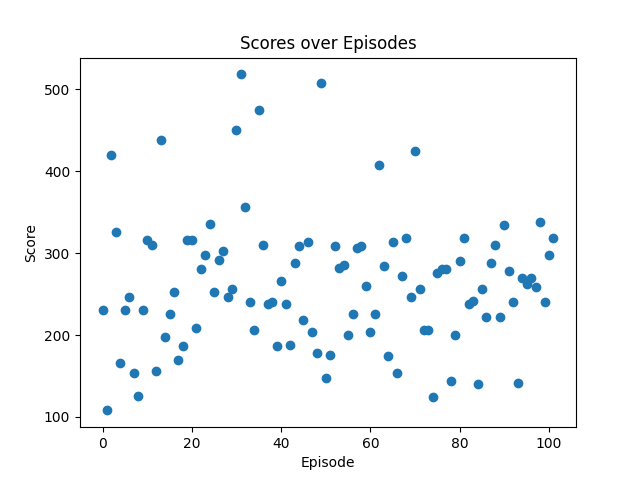
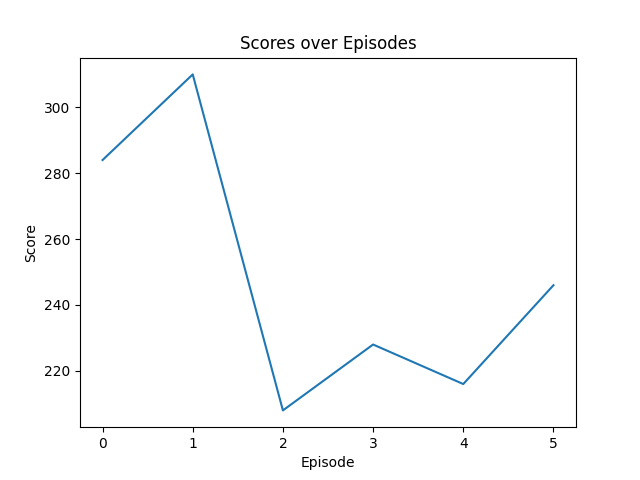
Fixed conv layers

diff --git a/dqn_agent.py b/dqn_agent.py
@@ -2,46 +2,82 @@ import numpy as np
 import tensorflow as tf
 import random
 from tensorflow import keras
-from keras.layers import Dense
+from keras.layers import Dense, Conv2D, Flatten, Reshape
 from keras.models import Sequential
-from keras.optimizers import Adam
+from keras.optimizers import Adam, RMSprop
 
 class DQNAgent:
-    def __init__(self, state_size, action_size, gamma=0.99, epsilon=1.0, epsilon_decay=0.99999, min_epsilon=0.01):
+    def __init__(self, state_size, action_size, alpha = 0.001, gamma=0.99, epsilon=0.9, epsilon_decay=0.99, min_epsilon=0.01):
         self.state_size = state_size
         self.action_size = action_size
-        self.model = self._build_model()
+        self.alpha = alpha # Learning rate
         self.gamma = gamma # Discount rate
         self.epsilon = epsilon # Exploration rate
         self.epsilon_min = min_epsilon
         self.epsilon_decay = epsilon_decay
+        
+        # convolution layers
+        self.conv_depth_1 = 128
+        self.conv_depth_2 = 128
+        self.conv_kernel_sizes = [(1,2), (2,1)]
+        self.conv_strides = (1,1)
+
+        # fully connected layers
+        self.hidden_units = 256
+        self.output_units = 4
+
+        # optimizer
+        self.optimizer = RMSprop(learning_rate=self.alpha,epsilon=self.epsilon, decay=self.epsilon_decay)
+
+        self.input_shape = (4,4,16)
+        self.model = self._build_model()
+
 
     def _build_model(self): 
         model = Sequential()
-        model.add(Dense(24, input_dim=self.state_size, activation='relu'))
-        model.add(Dense(24, activation='relu'))
-        model.add(Dense(self.action_size, activation='linear'))  # Q-value of each action
-        model.compile(loss='mse', optimizer=Adam())
+
+        # first convolutional layer (separate for different kernel sizes)
+        for kernel_size in self.conv_kernel_sizes:
+            model.add(Conv2D(self.conv_depth_1, kernel_size, strides=self.conv_strides, activation='relu', padding='valid', input_shape=self.input_shape))
+
+        # second convolutional layer (separate for different kernel sizes)
+        for kernel_size in self.conv_kernel_sizes:
+            model.add(Conv2D(self.conv_depth_2, kernel_size, strides=self.conv_strides, activation='relu', padding='valid'))
+
+        # flatten the output from convolutional layers to fit into dense layers
+        model.add(Flatten())
+
+        # first fully connected layer
+        model.add(Dense(self.hidden_units, activation='relu'))
+
+        # output layer
+        model.add(Dense(self.output_units))  # no explicit activation function
+
+        # compile the model with mean squared error loss and the RMSProp optimizer
+        model.compile(loss='mse', optimizer=self.optimizer)
+
         return model
 
     def choose_action(self, state):
         if np.random.rand() <= self.epsilon:
             return random.randrange(self.action_size)  # Exploration
         else:
-            state = np.reshape(state, [1, self.state_size])
+            # state = np.reshape(state, [1, self.state_size])
             Q_values = self.model.predict(state)
             # print(Q_values)
             return np.argmax(Q_values[0])  # Exploitation (choosing the action with the highest Q-value)
 
-    def learn(self, state, action, reward, next_state, done):
-        state = np.reshape(state, [1, self.state_size])
-        next_state = np.reshape(next_state, [1, self.state_size])
+    def learn(self, state, action, reward, next_state, done, ep, total_iters):
+        # state = np.reshape(state, [1, self.state_size])
+        # next_state = np.reshape(next_state, [1, self.state_size])
         target = self.model.predict(state)
+        print("target: ", target)
         if done:
             target[0][action] = reward
         else:
             Q_future = max(self.model.predict(next_state)[0])
+            print(action)
             target[0][action] = reward + self.gamma * Q_future
         self.model.fit(state, target, epochs=1, verbose=0)
-        # if self.epsilon > self.epsilon_min:
-        #     self.epsilon *= self.epsilon_decay
+        if((ep>10000) or (self.epsilon>0.1 and total_iters%2500==0)):
+                self.epsilon = self.epsilon/1.005

diff --git a/puzzle.py b/puzzle.py
@@ -12,11 +12,23 @@ import numpy as np
 import threading
 import queue
 import matplotlib
+import math
 matplotlib.use('Agg')
 
 
 def gen():
     return random.randint(0, c.GRID_LEN - 1)
+
+def change_values(X):
+    power_mat = np.zeros(shape=(1,4,4,16),dtype=np.float32)
+    for i in range(4):
+        for j in range(4):
+            if(X[i][j]==0):
+                power_mat[0][i][j][0] = 1.0
+            else:
+                power = int(math.log(X[i][j],2))
+                power_mat[0][i][j][power] = 1.0
+    return power_mat  
 
 class GameGrid(Frame):
     def __init__(self, ai_mode=False):
@@ -31,14 +43,6 @@ class GameGrid(Frame):
             c.KEY_DOWN: logic.down,
             c.KEY_LEFT: logic.left,
             c.KEY_RIGHT: logic.right,
-            c.KEY_UP_ALT1: logic.up,
-            c.KEY_DOWN_ALT1: logic.down,
-            c.KEY_LEFT_ALT1: logic.left,
-            c.KEY_RIGHT_ALT1: logic.right,
-            c.KEY_UP_ALT2: logic.up,
-            c.KEY_DOWN_ALT2: logic.down,
-            c.KEY_LEFT_ALT2: logic.left,
-            c.KEY_RIGHT_ALT2: logic.right,
         }
 
         self.grid_cells = []
@@ -62,17 +66,18 @@ class GameGrid(Frame):
 
     def train_agent(self):
         fig, ax = plt.subplots()  # Create a figure and axis for the plot
-
-        num_episodes = 1000
+        total_iters = 1
+        num_episodes = 100
         for episode in range(num_episodes):  # Train for 1000 episodes
-            self.agent.epsilon -= (1.0 - self.agent.epsilon_min) / num_episodes
             self.matrix = logic.new_game(c.GRID_LEN)
             self.history_matrixs = []
             # self.update_grid_cells()
 
             while True:
                 state = self.matrix.copy()
-                state_1 = np.array(self.matrix).flatten()  # flatten the state
+                state_1 = change_values(state)
+                print(state_1.shape)
+                # state_1 = np.array(state,dtype = np.float32).reshape(1,4,4,16)
                 action = self.agent.choose_action(state_1)
                 action_2 = c.ACTIONS[action]
                 action_done = self.perform_action(action_2)
@@ -83,11 +88,11 @@ class GameGrid(Frame):
 
                 if action_done:
                     next_state = self.matrix.copy()
-                    next_state_1 = np.array(self.matrix).flatten() # flatten the state
+                    next_state_1 = change_values(next_state) # flatten the state
                     reward = logic.get_reward(state, action, next_state)
                     game_over = logic.game_state(self.matrix)[0] in ['win', 'lose']
-                    self.agent.learn(state_1, action, reward, next_state_1, game_over)
-                    print(f"iteration {episode} reward: {reward} epsilon: {self.agent.epsilon}\n")
+                    self.agent.learn(state_1, action, reward, next_state_1, game_over, episode, total_iters)
+                    print(f"iteration {episode} reward: {reward} epsilon: {self.agent.epsilon} total iters: {total_iters}\n")
 
                 game_over = logic.game_state(self.matrix)[0] in ['win', 'lose']
                 if game_over:
@@ -95,6 +100,7 @@ class GameGrid(Frame):
                     self.save_score(score)
                     self.plot_scores(fig, ax, episode)
                     break
+                total_iters += 1
 
     def perform_action(self, action):
         if action in self.commands:
@@ -187,7 +193,7 @@ class GameGrid(Frame):
     def plot_scores(self, fig, ax, episode):
         ax.clear()  # Clear the axis
         x_values = list(range(episode + 1))  # X-axis represents the number of episodes
-        ax.scatter(x_values, self.scores, marker='o')
+        ax.plot(x_values, self.scores)
         ax.set_xlabel('Episode')
         ax.set_ylabel('Score')
         ax.set_title('Scores over Episodes')
